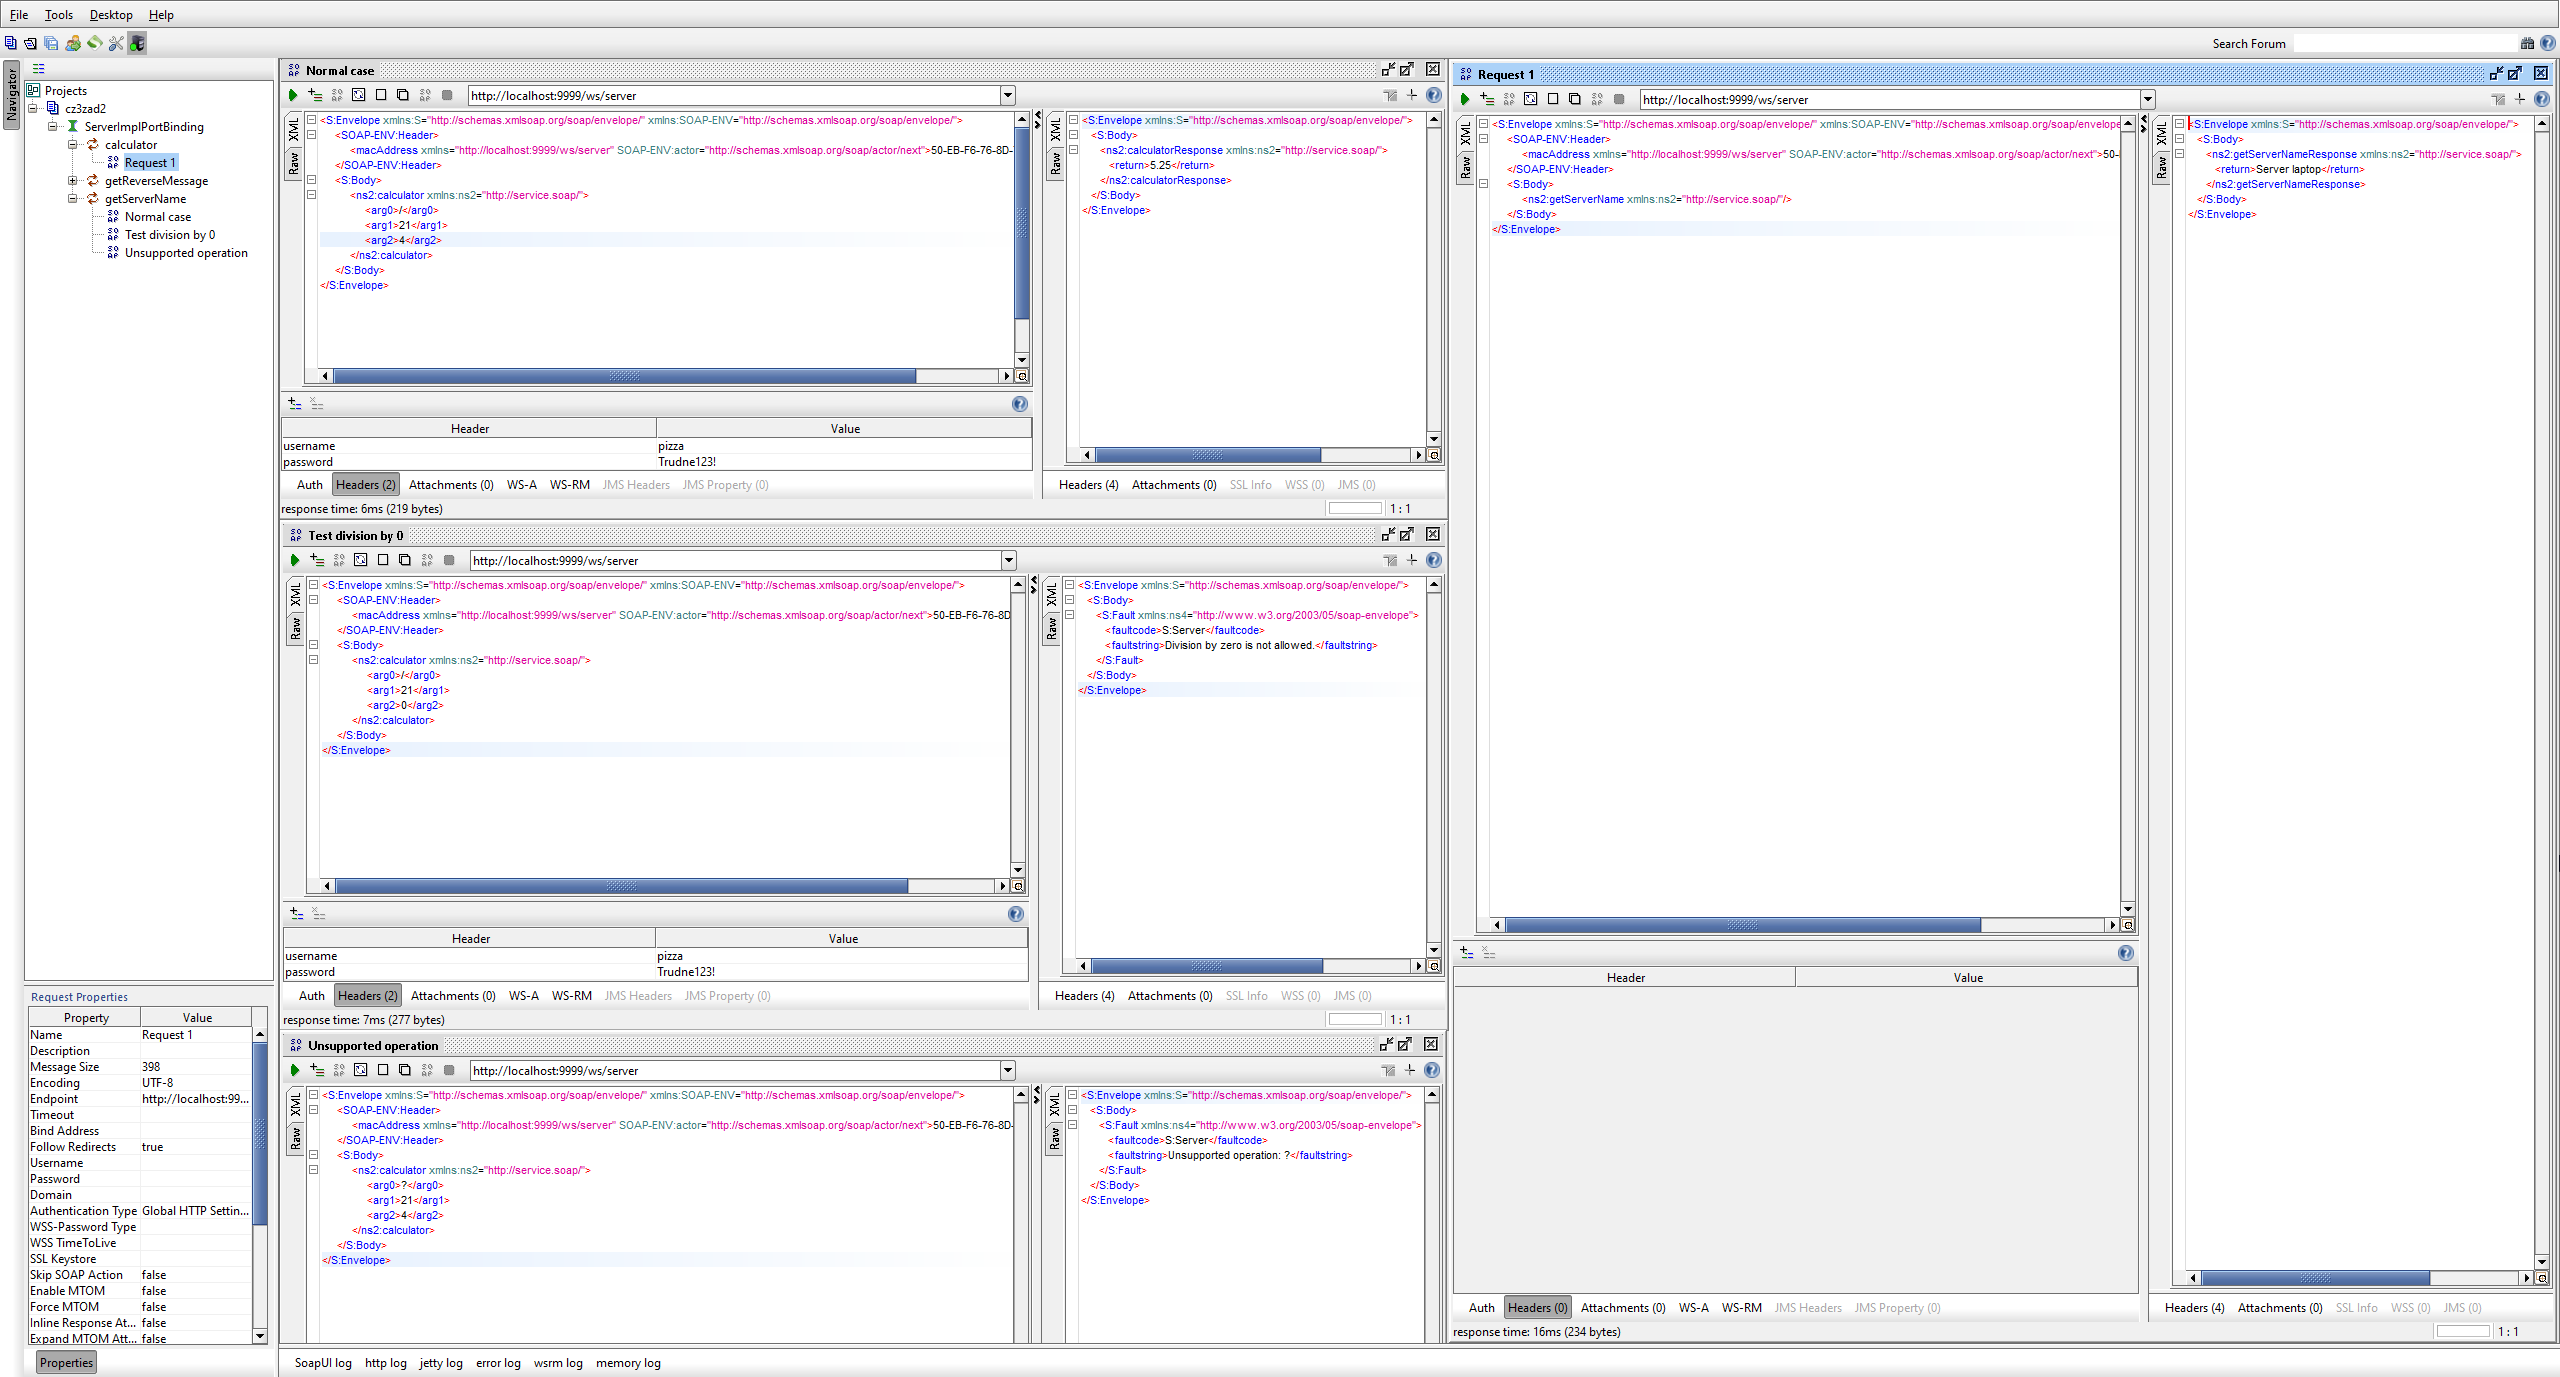
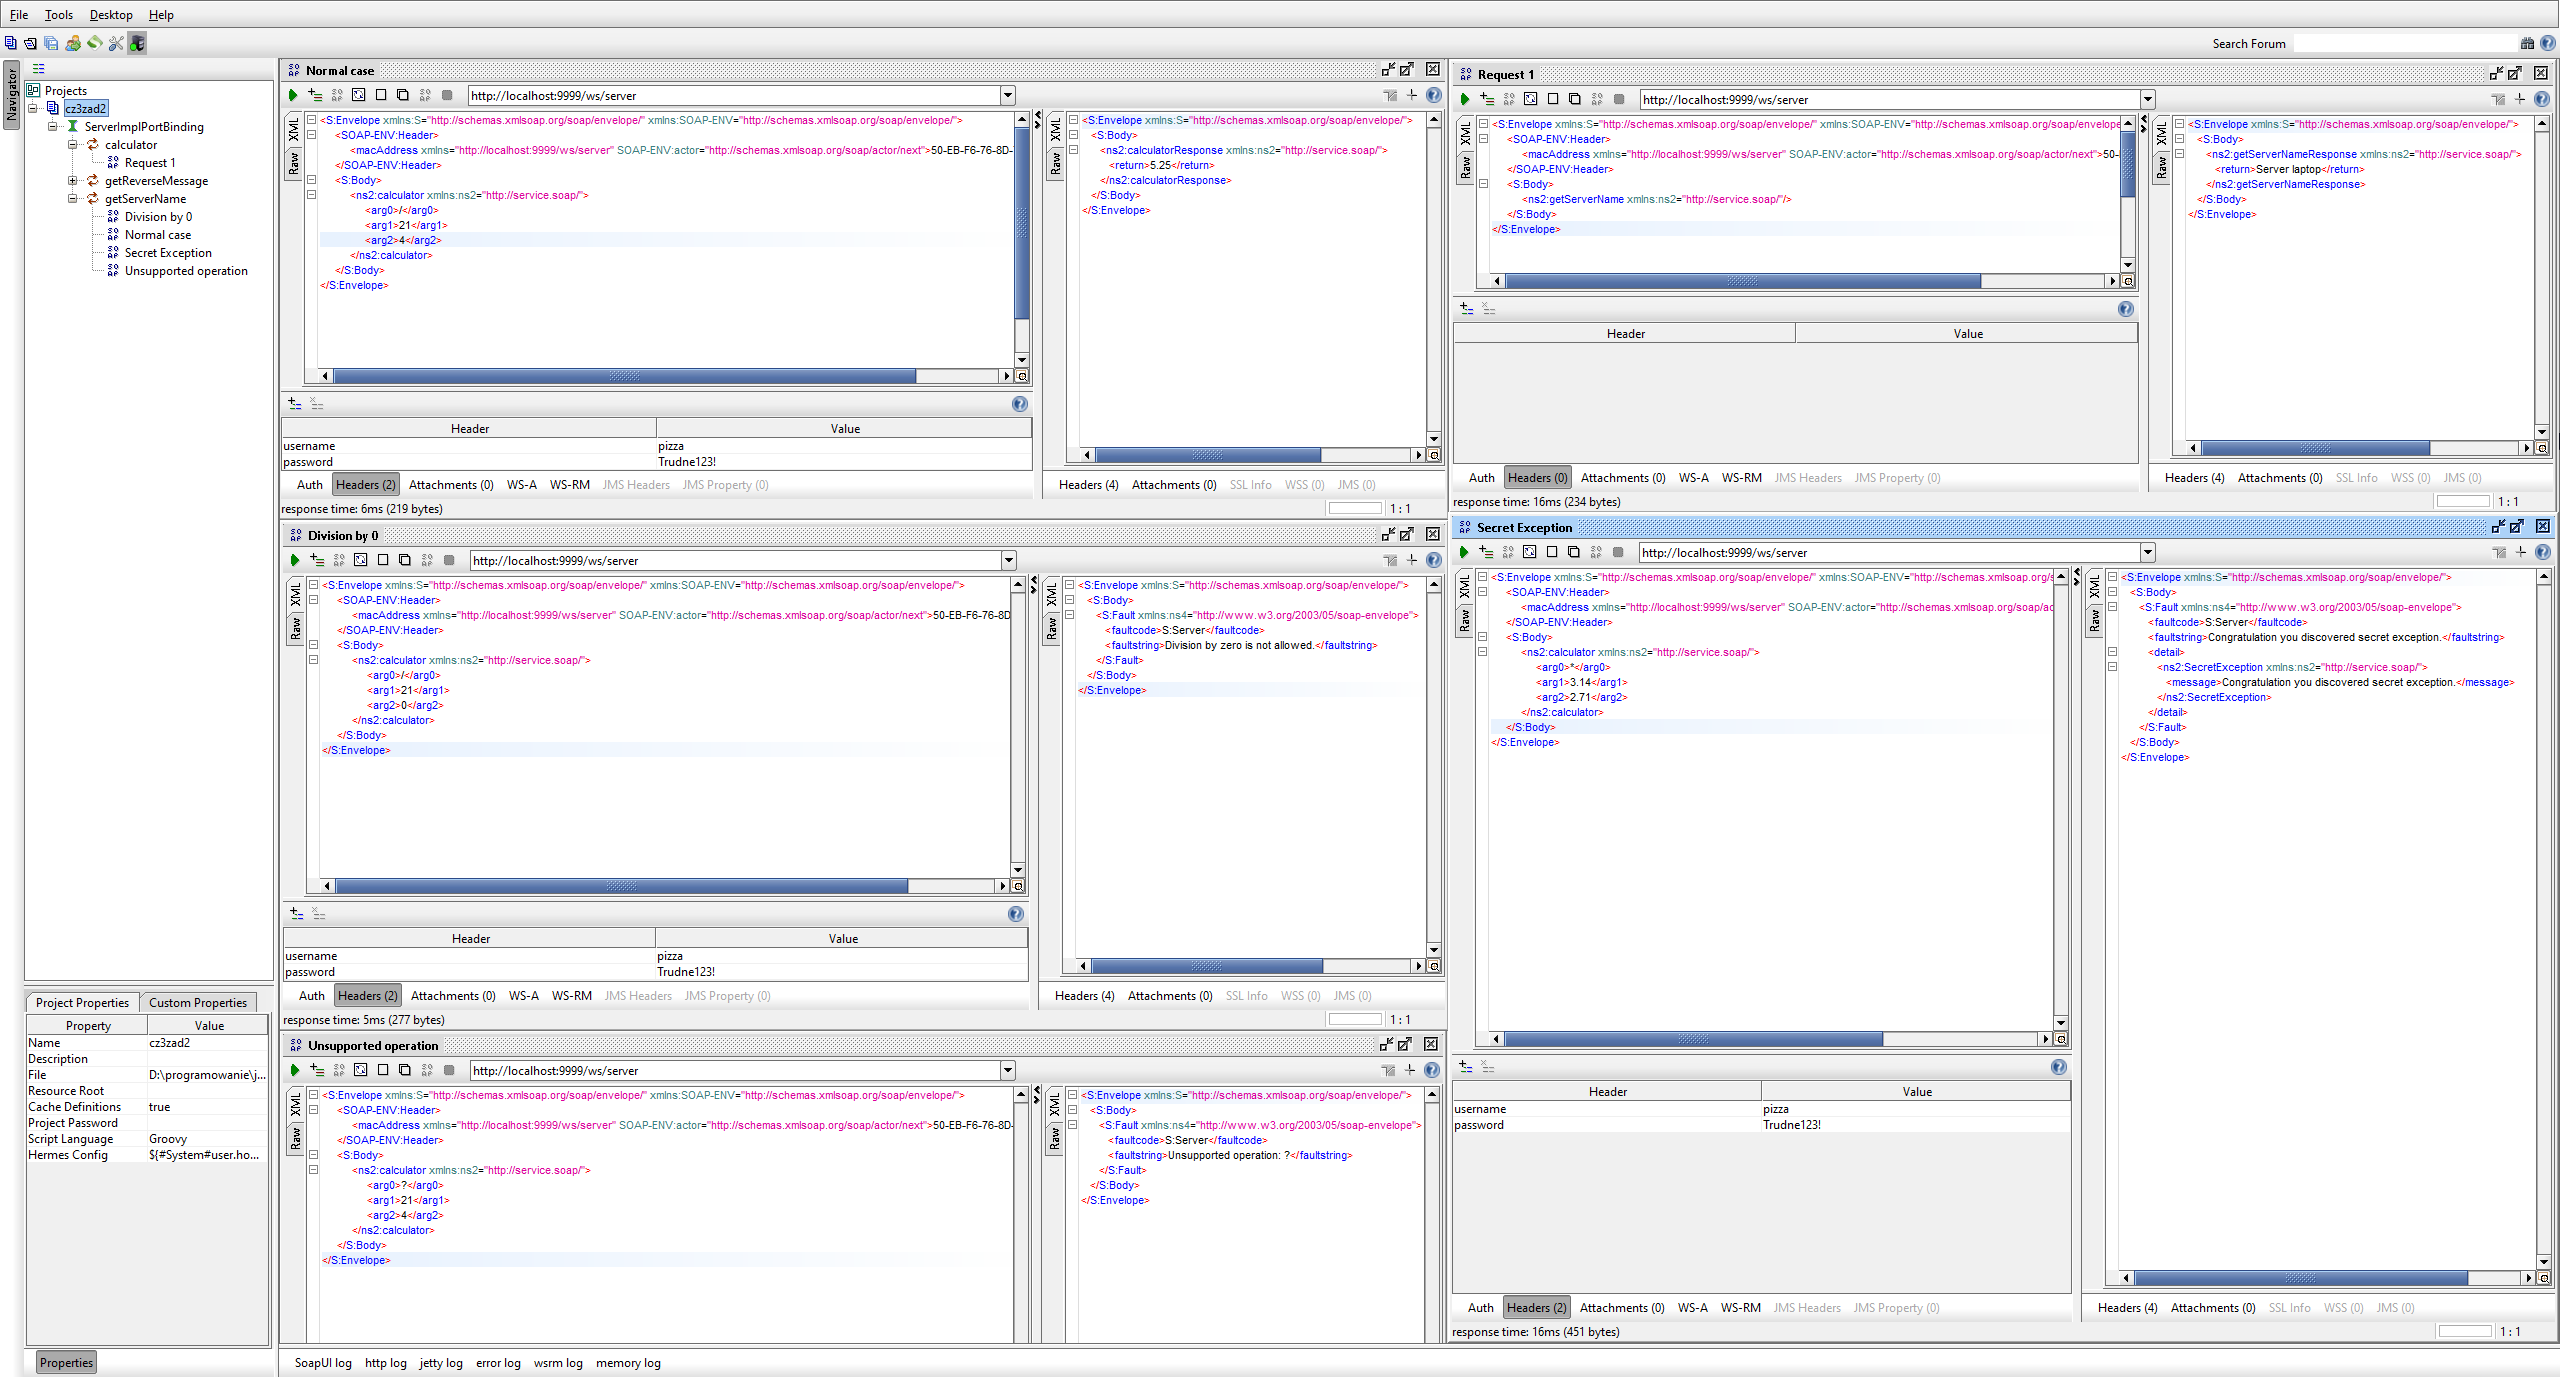
Cz.3 zad 3 sekretny wyjątek

diff --git a/cz3/src/soap/service/ServerImpl.java b/cz3/src/soap/service/ServerImpl.java
@@ -39,15 +39,16 @@ public class ServerImpl implements Server {
     }
 
     @Override
-    public Double calculator(String operation, Double firstValue, Double secondValue) throws IllegalArgumentException, ArithmeticException, SecurityException {
-        if(authorization()){ System.out.println("Witaj! Zalogowano się prawidłowo."); }
+    public Double calculator(String operation, Double firstValue, Double secondValue) throws IllegalArgumentException, ArithmeticException, SecurityException, SecretException {
+        System.out.println("DZIALA dla: " + operation + " " + firstValue + " " + secondValue);
+        if (authorization()){ System.out.println("Witaj! Zalogowano się prawidłowo."); }
         else {
             System.out.println("Błędne dane. Nie udało się zalogować. ");
-            throw new SecurityException("Nieudana autoryzacja: błędne dane logowania");
+            throw new SecurityException("Authorization failed: invalid login credentials");
         }
 
         Double result;
-        if(operation == null || firstValue == null || secondValue == null){
+        if (operation == null || firstValue == null || secondValue == null){
             throw new NullPointerException("One of the arguments is null. Operation = " + operation + " first value = " + firstValue + " second value = " + secondValue);
         }
         if (!operation.matches("[+\\-*/]")) {
@@ -55,6 +56,10 @@ public class ServerImpl implements Server {
         }
         if (Double.isInfinite(firstValue) || Double.isInfinite(secondValue) || Double.isNaN(firstValue) || Double.isNaN(secondValue)) {
             throw new ArithmeticException("Invalid input: Infinite or NaN values are not allowed.");
+        }
+        if (operation.equals("*") && firstValue.equals(3.14) && secondValue.equals(2.71)) {
+            System.out.println("ODKRYWCA");
+            throw new SecretException("Congratulation you discovered secret exception.");
         }
         switch (operation) {
             case "+":

diff --git a/cz3/src/soap/client/WebServiceClient2.java b/cz3/src/soap/client/WebServiceClient2.java
@@ -46,7 +46,7 @@ public class WebServiceClient2 {
 //        req_ctx.put(MessageContext.HTTP_REQUEST_HEADERS, headers);
 //        // Call the service method
 //        try{
-//            System.out.println(server.calculator("/", 10.1, 3.2));
+//            System.out.println(server.calculator("*", 3.14, 2.71));
 //        } catch (Exception e) {
 //            System.out.println("Wystąpił wyjątek: " + e.getMessage());
 //        }
@@ -66,7 +66,7 @@ public class WebServiceClient2 {
         headers.put("Password", Collections.singletonList("Trudne123!"));
         req_ctx.put(MessageContext.HTTP_REQUEST_HEADERS, headers);
         try {
-            System.out.println(server.calculator("?", 20.0, 3.0));
+            System.out.println(server.calculator("*", 3.14, 2.71));
         } catch (Exception e) {
             System.out.println("Wystąpił wyjątek: " + e.getMessage());
         }

diff --git a/cz3/src/soap/service/SecretException.java b/cz3/src/soap/service/SecretException.java
@@ -1,0 +1,20 @@
+package soap.service;
+
+public class SecretException extends Exception {
+
+    public SecretException() {
+        super();
+    }
+
+    public SecretException(String message) {
+        super(message);
+    }
+
+    public SecretException(String message, Throwable cause) {
+        super(message, cause);
+    }
+
+    public SecretException(Throwable cause) {
+        super(cause);
+    }
+}

diff --git a/cz3/src/soap/service/Server.java b/cz3/src/soap/service/Server.java
@@ -55,7 +55,7 @@ public interface Server {
         @WebParam(name = "arg1", targetNamespace = "")
         Double arg1,
         @WebParam(name = "arg2", targetNamespace = "")
-        Double arg2);
+        Double arg2) throws SecretException;
 
     /**
      * 
